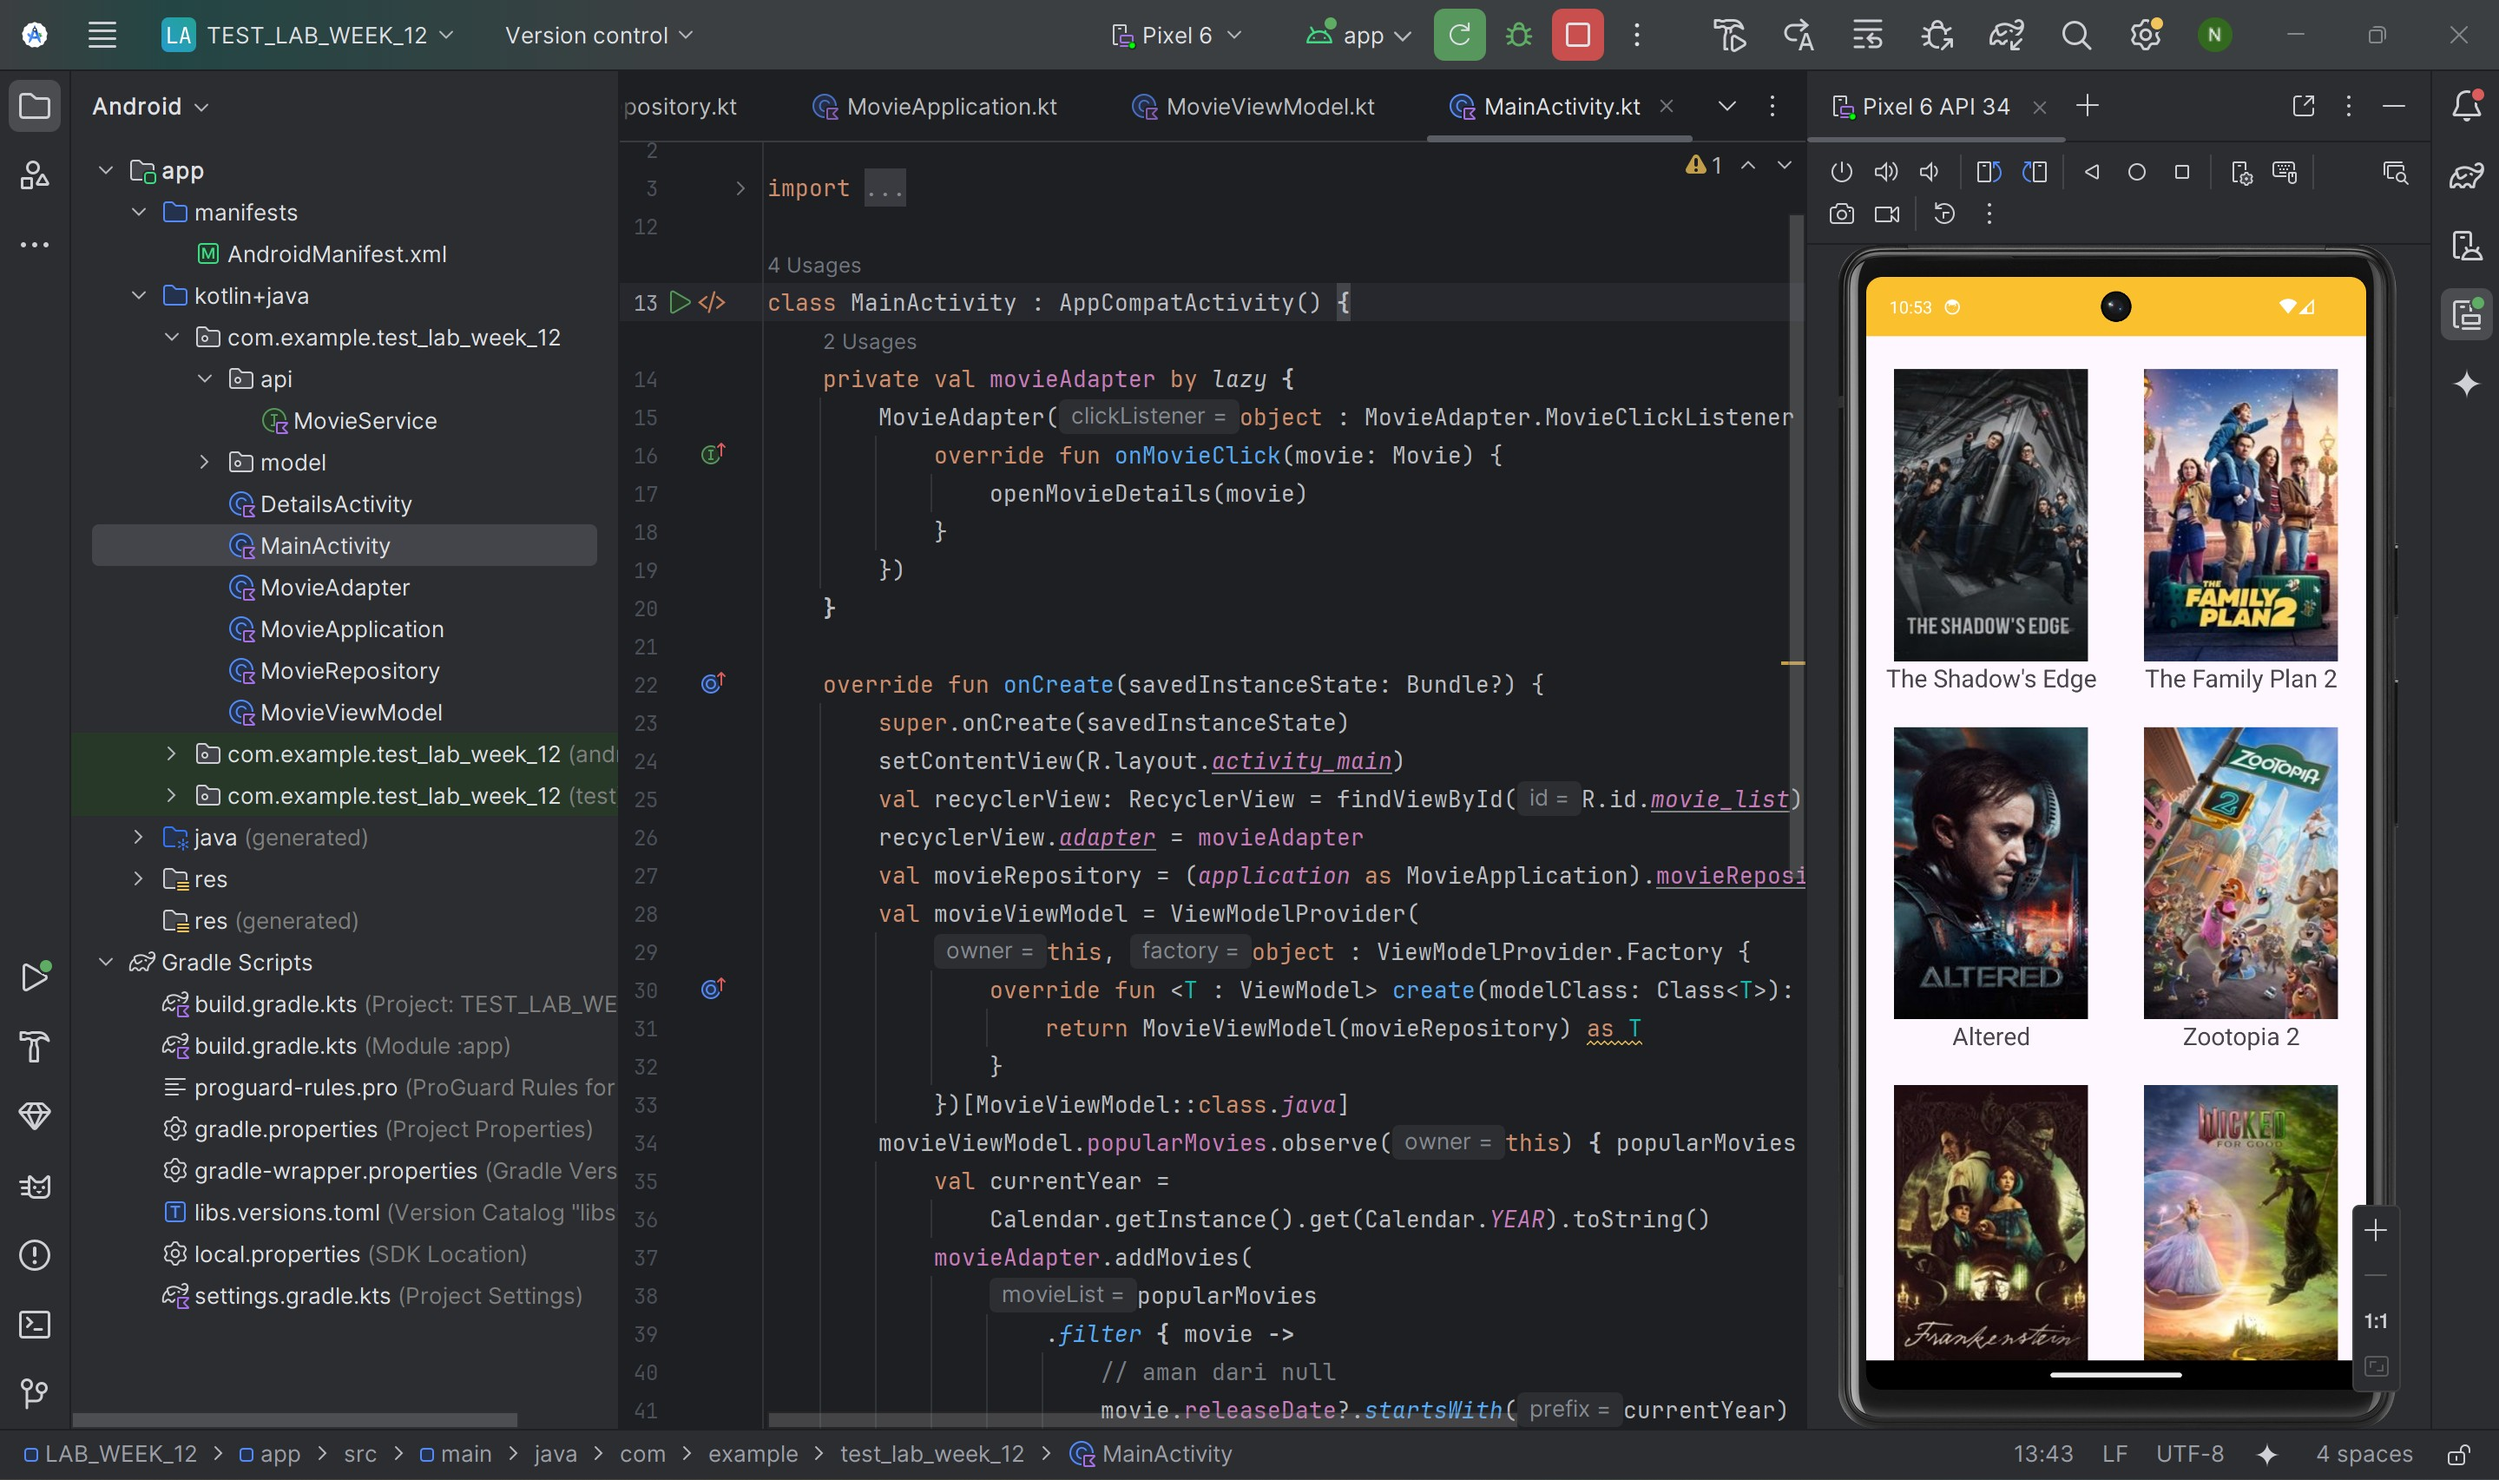
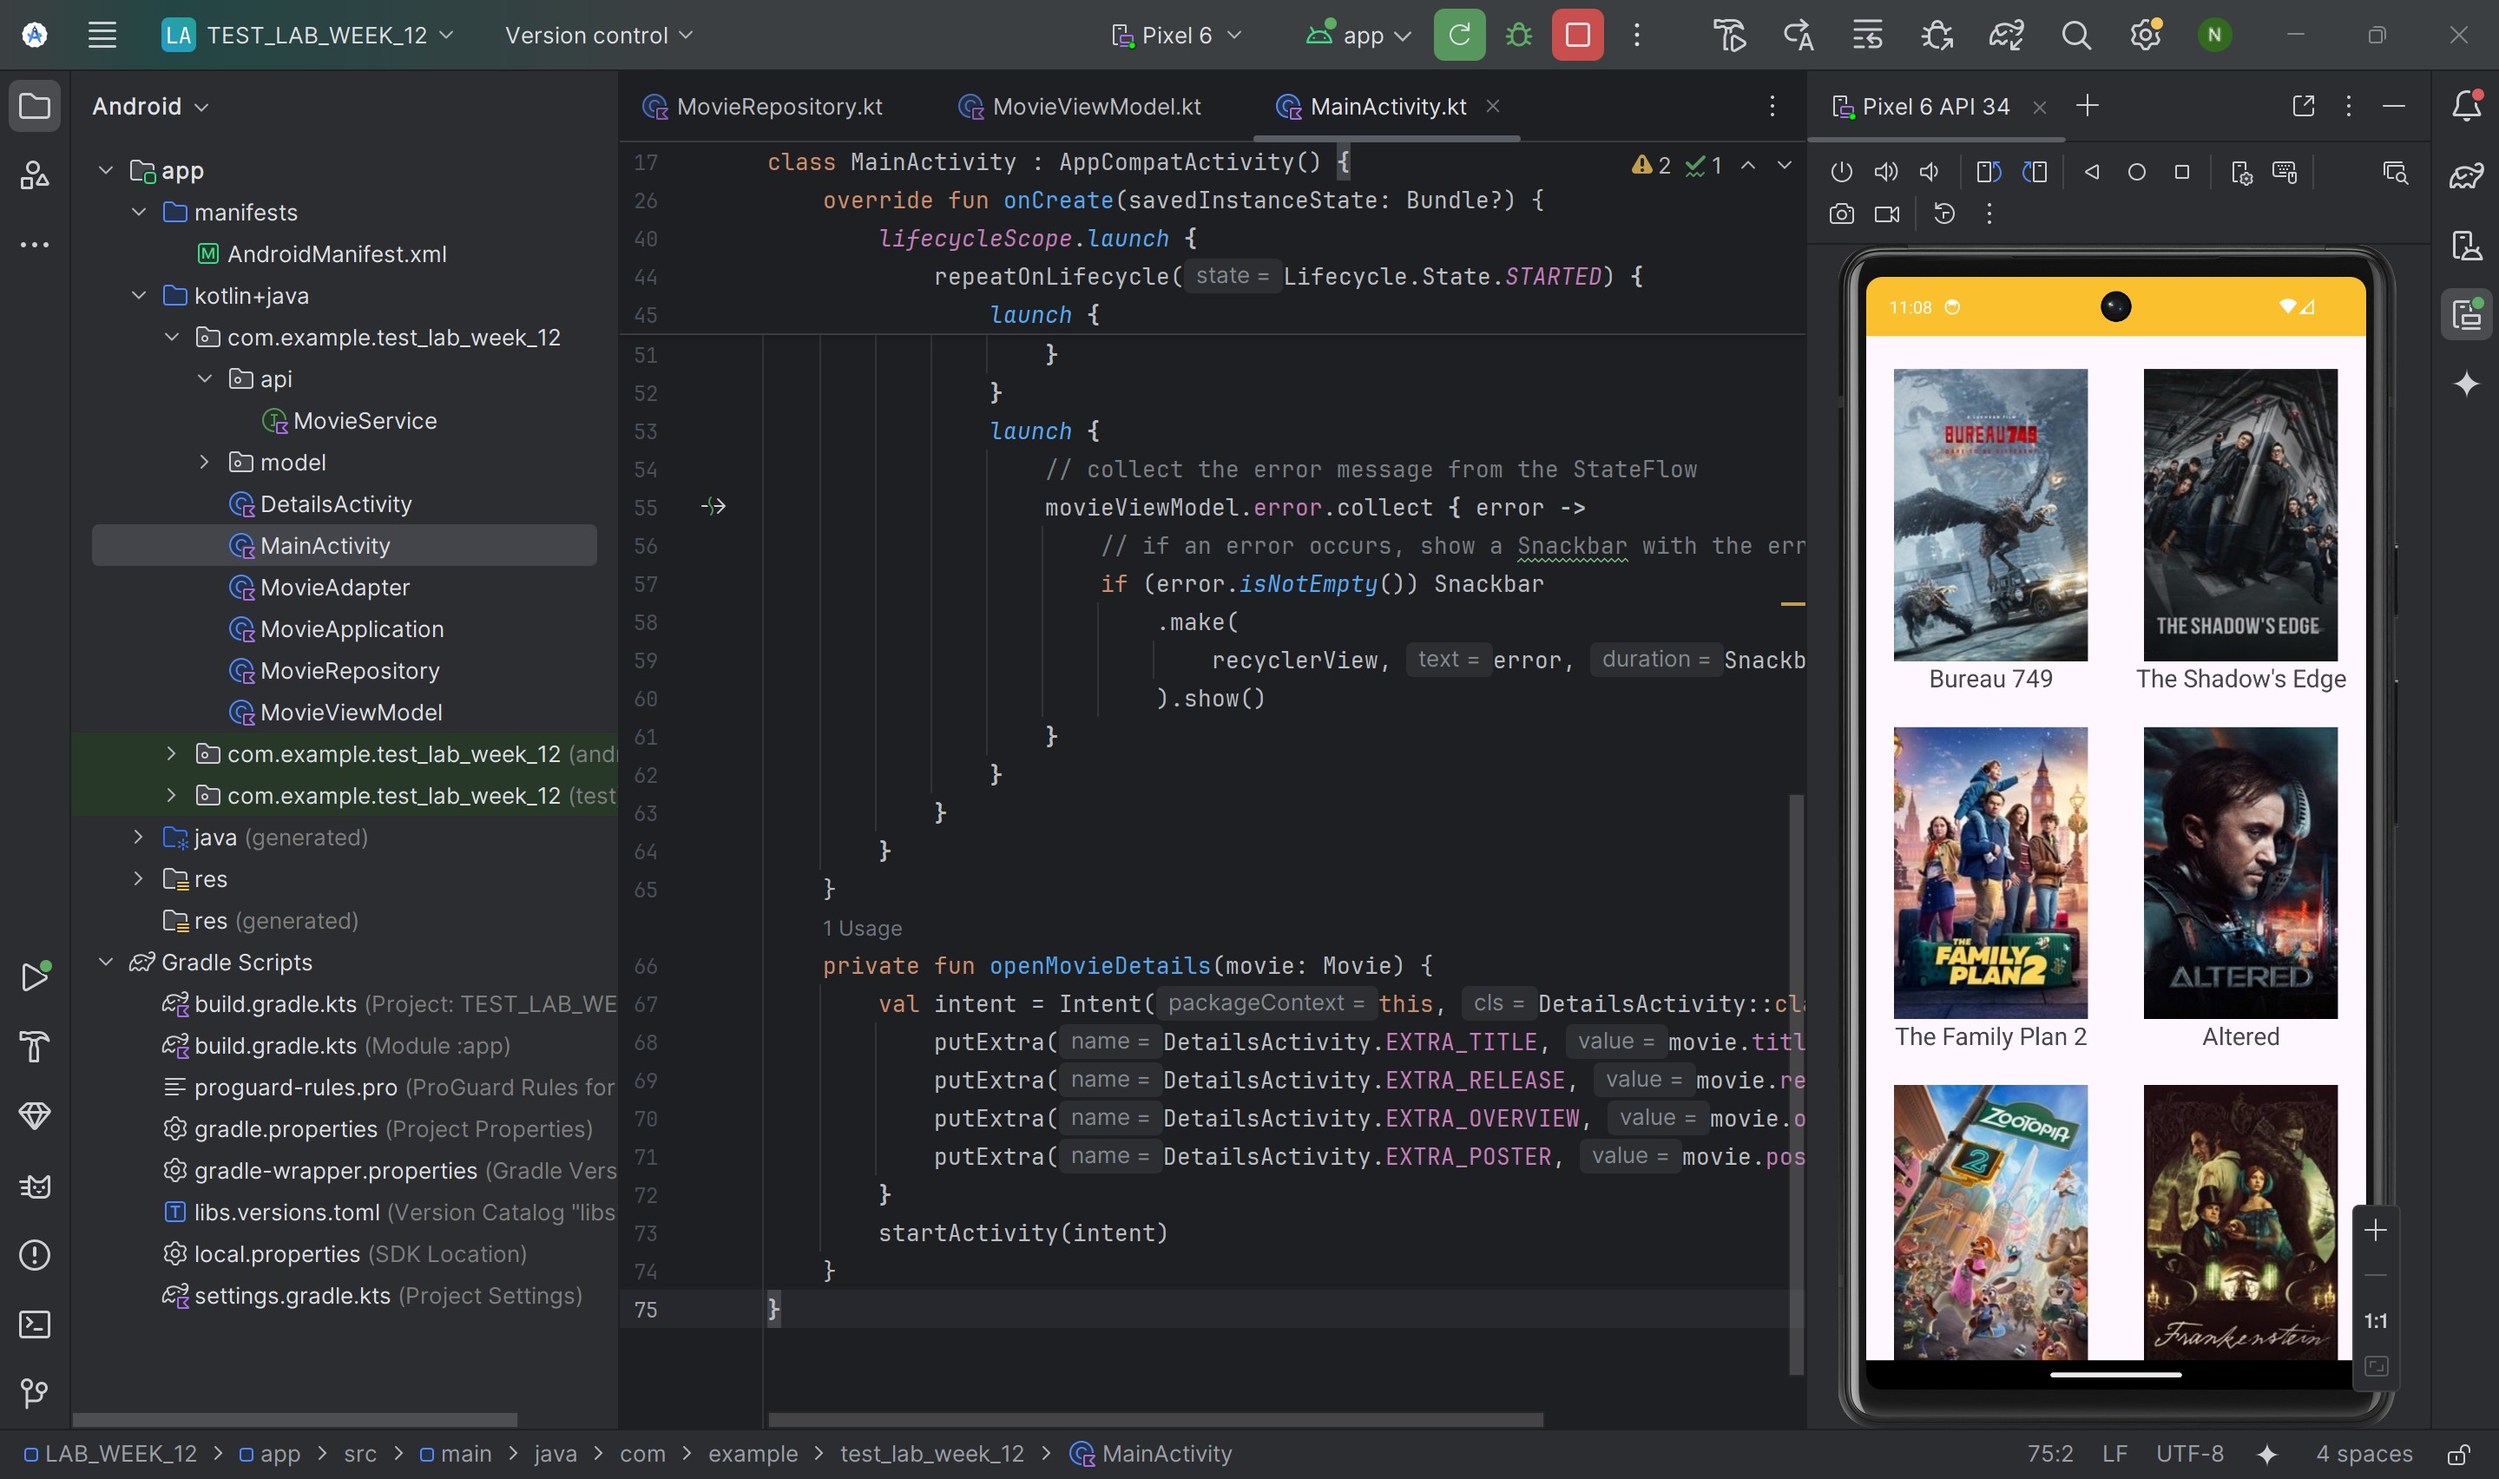
Commit No. 3 – Upgrading app with flow

diff --git a/app/src/main/java/com/example/test_lab_week_12/MainActivity.kt b/app/src/main/java/com/example/test_lab_week_12/MainActivity.kt
@@ -3,11 +3,15 @@ package com.example.test_lab_week_12
 import android.content.Intent
 import android.os.Bundle
 import androidx.appcompat.app.AppCompatActivity
+import androidx.lifecycle.Lifecycle
 import androidx.lifecycle.ViewModel
 import androidx.lifecycle.ViewModelProvider
+import androidx.lifecycle.lifecycleScope
+import androidx.lifecycle.repeatOnLifecycle
 import androidx.recyclerview.widget.RecyclerView
 import com.example.test_lab_week_12.model.Movie
 import com.google.android.material.snackbar.Snackbar
+import kotlinx.coroutines.launch
 import java.util.Calendar
 
 class MainActivity : AppCompatActivity() {
@@ -31,25 +35,34 @@ class MainActivity : AppCompatActivity() {
                     return MovieViewModel(movieRepository) as T
                 }
             })[MovieViewModel::class.java]
-        movieViewModel.popularMovies.observe(this) { popularMovies ->
-            val currentYear =
-                Calendar.getInstance().get(Calendar.YEAR).toString()
-            movieAdapter.addMovies(
-                popularMovies
-                    .filter { movie ->
-                        // aman dari null
-                        movie.releaseDate?.startsWith(currentYear) == true
+        // fetch movies from the API
+        // lifecycleScope is a lifecycle-aware coroutine scope
+        lifecycleScope.launch {
+            // repeatOnLifecycle is a lifecycle-aware coroutine builder
+            // Lifecycle.State.STARTED means that the coroutine will run
+            // when the activity is started
+            repeatOnLifecycle(Lifecycle.State.STARTED) {
+                launch {
+                    // collect the list of movies from the StateFlow
+                    movieViewModel.popularMovies.collect {
+                        // add the list of movies to the adapter
+                            movies ->
+                        movieAdapter.addMovies(movies)
                     }
-                    .sortedByDescending { it.popularity }
-            )
-        }
-        movieViewModel.error.observe(this) { error ->
-            if (error.isNotEmpty()) {
-                Snackbar.make(recyclerView, error, Snackbar.LENGTH_LONG).show()
+                }
+                launch {
+                    // collect the error message from the StateFlow
+                    movieViewModel.error.collect { error ->
+                        // if an error occurs, show a Snackbar with the error message
+                        if (error.isNotEmpty()) Snackbar
+                            .make(
+                                recyclerView, error, Snackbar.LENGTH_LONG
+                            ).show()
+                    }
+                }
             }
         }
     }
-
     private fun openMovieDetails(movie: Movie) {
         val intent = Intent(this, DetailsActivity::class.java).apply {
             putExtra(DetailsActivity.EXTRA_TITLE, movie.title)

diff --git a/app/src/main/java/com/example/test_lab_week_12/MovieViewModel.kt b/app/src/main/java/com/example/test_lab_week_12/MovieViewModel.kt
@@ -5,6 +5,9 @@ import androidx.lifecycle.ViewModel
 import androidx.lifecycle.viewModelScope
 import com.example.test_lab_week_12.model.Movie
 import kotlinx.coroutines.Dispatchers
+import kotlinx.coroutines.flow.MutableStateFlow
+import kotlinx.coroutines.flow.StateFlow
+import kotlinx.coroutines.flow.catch
 import kotlinx.coroutines.launch
 
 class MovieViewModel(private val movieRepository: MovieRepository)
@@ -12,17 +15,28 @@ class MovieViewModel(private val movieRepository: MovieRepository)
     init {
         fetchPopularMovies()
     }
-    // define the LiveData
-    val popularMovies: LiveData<List<Movie>>
-        get() = movieRepository.movies
-    val error: LiveData<String>
-        get() = movieRepository.error
+    // define the StateFlow in replace of the LiveData
+    // a StateFlow is an observable Flow that emits state updates to the collectors
+    // MutableStateFlow is a StateFlow that you can change the value
+    private val _popularMovies = MutableStateFlow(
+        emptyList<Movie>()
+    )
+    val popularMovies: StateFlow<List<Movie>> = _popularMovies
+    private val _error = MutableStateFlow("")
+    val error: StateFlow<String> = _error
     // fetch movies from the API
     private fun fetchPopularMovies() {
         // launch a coroutine in viewModelScope
         // Dispatchers.IO means that this coroutine will run on a shared pool of threads
         viewModelScope.launch(Dispatchers.IO) {
-            movieRepository.fetchMovies()
+            movieRepository.fetchMovies().catch {
+                // catch is a terminal operator that catches exceptions from the Flow
+                _error.value = "An exception occurred: ${it.message}"
+            }.collect {
+                // collect is a terminal operator that collects the values from the Flow
+                // the results are emitted to the StateFlow
+                        _popularMovies.value = it
+            }
         }
     }
 }

diff --git a/app/src/main/java/com/example/test_lab_week_12/MovieRepository.kt b/app/src/main/java/com/example/test_lab_week_12/MovieRepository.kt
@@ -4,28 +4,22 @@ import androidx.lifecycle.LiveData
 import androidx.lifecycle.MutableLiveData
 import com.example.test_lab_week_12.api.MovieService
 import com.example.test_lab_week_12.model.Movie
+import kotlinx.coroutines.Dispatchers
+import kotlinx.coroutines.flow.Flow
+import kotlinx.coroutines.flow.flow
+import kotlinx.coroutines.flow.flowOn
 
 class MovieRepository(private val movieService: MovieService) {
     private val apiKey = "eae1f981007bfa37e4ba6f150b6fdaaa"
-    // LiveData that contains a list of movies
-    private val movieLiveData = MutableLiveData<List<Movie>>()
-    val movies: LiveData<List<Movie>>
-        get() = movieLiveData
-    // LiveData that contains an error message
-    private val errorLiveData = MutableLiveData<String>()
-    val error: LiveData<String>
-        get() = errorLiveData
     // fetch movies from the API
-    suspend fun fetchMovies() {
-        try {
-            // get the list of popular movies from the API
-            val popularMovies = movieService.getPopularMovies(apiKey)
-            movieLiveData.postValue(popularMovies.results)
-        } catch (exception: Exception) {
-            // if an error occurs, post the error message to the
-            errorLiveData
-            errorLiveData.postValue(
-                "An error occurred: ${exception.message}")
-        }
+    // this function returns a Flow of Movie objects
+    // a Flow is a type of coroutine that can emit multiple values
+    // for more info, see: https://kotlinlang.org/docs/flow.html#flows
+    fun fetchMovies(): Flow<List<Movie>> {
+        return flow {
+    // emit the list of popular movies from the API
+        emit(movieService.getPopularMovies(apiKey).results)
+    // use Dispatchers.IO to run this coroutine on a shared pool of threads
+        }.flowOn(Dispatchers.IO)
     }
 }
